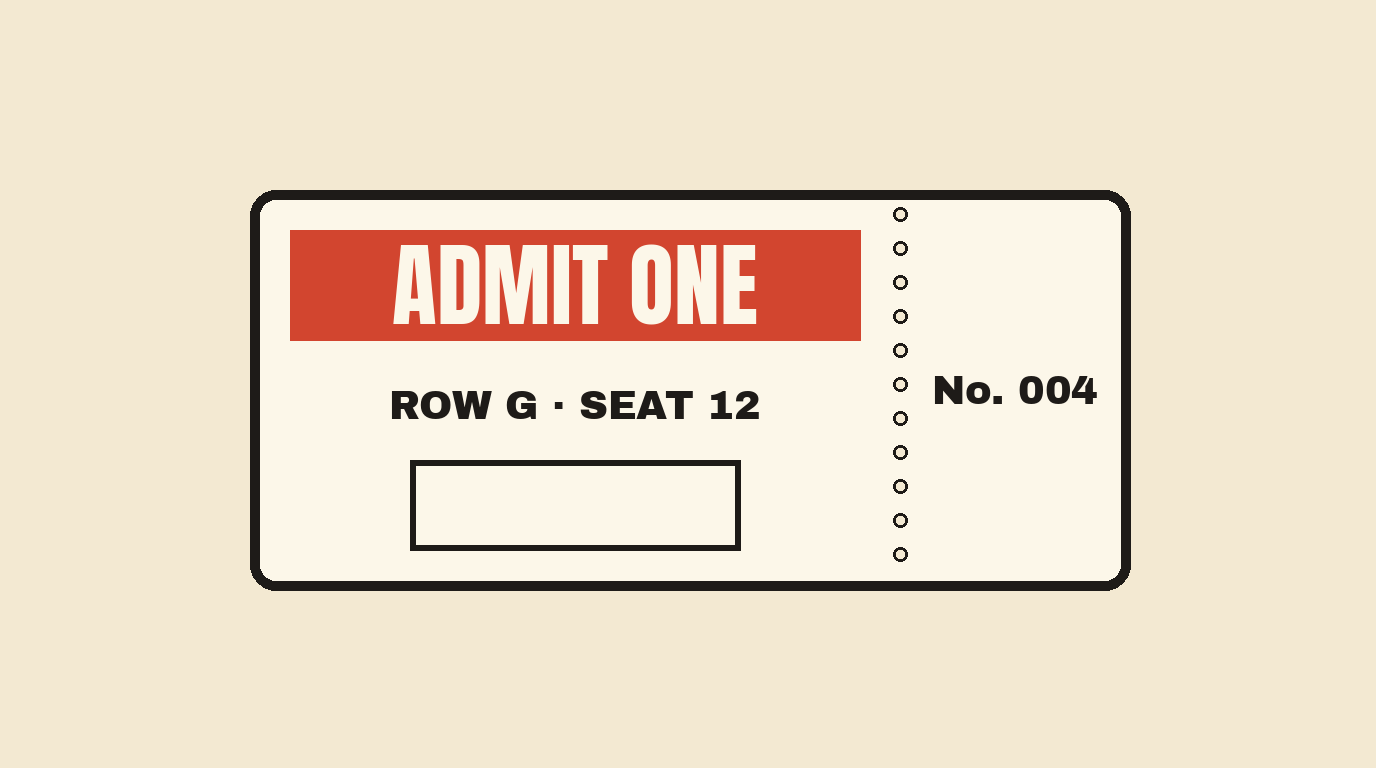
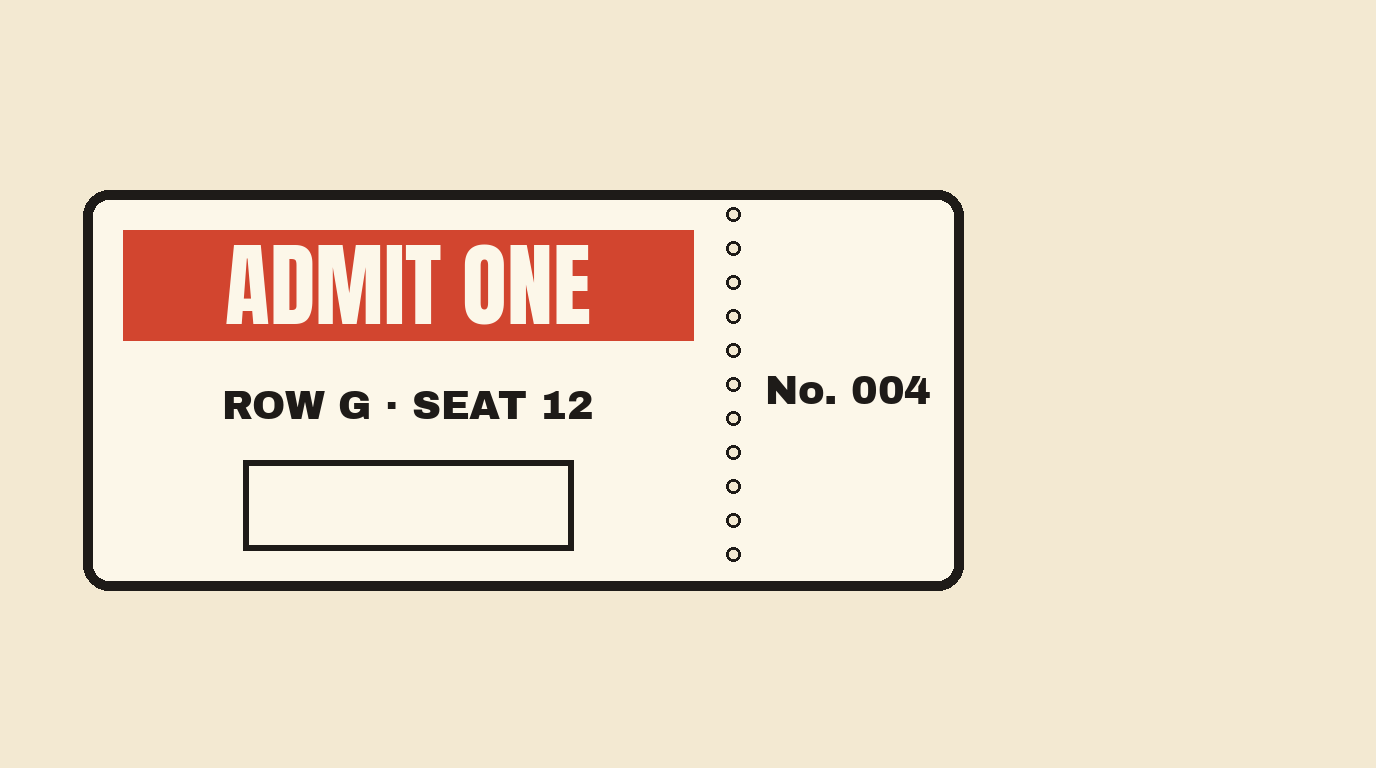
Ep.4 cold-open fixes: ticket centred at 38 %, $30 centred in its box, fee column left-aligned right of the ticket with a ruled sum and a red ring, ledger written by a plain cuff hand from the right edge (no Larry sleeve), cf1 note dropped, c1 DOWNTOWN inside the dark wall, b1 $18 FEES fades before t
Claude-Session: https://claude.ai/code/session_013pWx4qcpXPWropjuHuEZgS

Changed region(s): [[0.0625, 0.25, 0.8438, 0.7812], [0.4062, 0.5938, 0.5625, 0.7188]]

diff --git a/episodes/0005-drip-pricing/gen_script.py b/episodes/0005-drip-pricing/gen_script.py
@@ -23,6 +23,9 @@ def _fnt(name, size):
             return ImageFont.truetype(str(q), size)
 
 
+TICKET_DX = -167  # px in the 1376-wide picture (make_edits.py uses the same offset for the l1 desk composite)
+
+
 def make_ticket(path):
     """Code-drawn hero prop (no generation): the same 1950s concert ticket as the Ep.3 teaser, blank price box."""
     from PIL import Image, ImageDraw
@@ -30,7 +33,7 @@ def make_ticket(path):
     im = Image.new("RGB", (W, H), (243, 233, 210))
     d = ImageDraw.Draw(im)
     ink, red, paper = (30, 27, 24), (210, 69, 47), (252, 247, 233)
-    x0, y0, x1, y1 = 250, 190, 1130, 590
+    x0, y0, x1, y1 = 250 + TICKET_DX, 190, 1130 + TICKET_DX, 590  # centre at 38 % of the frame: the fee column fits on the right
     d.rounded_rectangle((x0, y0, x1, y1), radius=26, fill=paper, outline=ink, width=10)
     sx = x1 - 230
     for yy in range(y0 + 24, y1 - 20, 34):
@@ -174,7 +177,13 @@ X1_ON = dict(x=0.6353, y=0.4846, w=0.058, h=0.11, angle=1, color="ink", font="he
 X2_TOP = dict(x=0.396, y=0.2007, w=0.289, h=0.127, angle=2, color="ink", font="headline")
 X2_OFF = dict(x=0.1744, y=0.489, w=0.081, h=0.096, angle=1, color="ink", font="headline")
 X2_ON = dict(x=0.638, y=0.4845, w=0.059, h=0.112, angle=1, color="ink", font="headline")
-TICKET_PRICE_BOX = dict(x=0.43, y=0.62, w=0.20, h=0.10)  # the blank price box of the code-drawn ticket
+TICKET_PRICE_BOX = dict(x=0.2965, y=0.660, w=0.20, h=0.10)  # centred in the price box (.177-.416 x .599-.716), ~60 % of its height
+# the fee column on the clear paper right of the ticket (border at .70): left-aligned from .745, even 11 % line pitch
+FEE = lambda y, **kw: dict(x=0.85, y=y, w=0.21, h=0.075, align="left", **kw)
+FEE_Y = (0.37, 0.48, 0.59)
+SUM_RULE = dict(type="underline", x=0.82, y=0.637, w=0.15, h=0.01, color="ink", target=[0.746, 0.555, 0.90, 0.625])
+SUM = dict(x=0.85, y=0.71, w=0.21, h=0.075, align="left")
+SUM_RING = dict(type="circle", x=0.832, y=0.712, w=0.19, h=0.11, target=[0.76, 0.676, 0.905, 0.748])
 
 # ------------------------------------------------------------------ cold open (≤ 15 s to the folder)
 beat("o1", S_OPEN, "A concert ticket. Thirty dollars.",
@@ -182,16 +191,18 @@ beat("o1", S_OPEN, "A concert ticket. Thirty dollars.",
      pause_at={"word": "Thirty", "sec": 0.45, "hit": "stamp"}, ledger=[tab("TICKET", "$30.00", "Thirty")], label="Illustration")
 beat("o2", S_OPEN, "Then the fees. Eight. Six. Four.",
      reuse("o1", hand_marks=True, marks=[write("$30", at=0.0, **TICKET_PRICE_BOX, color="ink"),
-                                         write("+ $8 fee", on="Eight.", dur=0.45, x=0.86, y=0.40, w=0.16, h=0.07),
-                                         write("+ $6 fee", on="Six.", chain=True, dur=0.45, x=0.86, y=0.52, w=0.16, h=0.07),
-                                         write("+ $4 fee", on="Four.", chain=True, dur=0.45, x=0.86, y=0.64, w=0.16, h=0.07)]),
+                                         write("+ $8 fee", on="Eight.", dur=0.45, **FEE(FEE_Y[0])),
+                                         write("+ $6 fee", on="Six.", chain=True, dur=0.45, **FEE(FEE_Y[1])),
+                                         write("+ $4 fee", on="Four.", chain=True, dur=0.45, **FEE(FEE_Y[2]))]),
      # (Klot, option 2: the fee rows and PAID go on Larry's tab in one pass at b1, "Eighteen dollars of fees")
      label="Illustration")
 beat("o3", S_OPEN, "Total: forty-eight.",
      reuse("o1", hand_marks=True,  # no push: the fee column stays clear of Larry's tab and of the ILLUSTRATION plate
            marks=[write("$30", at=0.0, **TICKET_PRICE_BOX, color="ink"),
-                  write("+ $8 fee", at=0.0, x=0.86, y=0.40, w=0.16, h=0.07), write("+ $6 fee", at=0.0, x=0.86, y=0.52, w=0.16, h=0.07),
-                  write("+ $4 fee", at=0.0, x=0.86, y=0.64, w=0.16, h=0.07), write("= $48", on="forty-eight.", x=0.86, y=0.755, w=0.16, h=0.09)]),
+                  write("+ $8 fee", at=0.0, **FEE(FEE_Y[0])), write("+ $6 fee", at=0.0, **FEE(FEE_Y[1])),
+                  write("+ $4 fee", at=0.0, **FEE(FEE_Y[2])),
+                  dict(SUM_RULE, on="Total:", dur=0.3, hand=True), write("= $48", on="forty-eight.", dur=0.5, chain=True, **SUM),
+                  dict(SUM_RING, on="forty-eight.", delay=0.6, dur=0.45, chain=True, hand=True)]),  # ruled, written, then ringed in red
      pause_at={"word": "forty-eight.", "sec": 0.45, "hit": "stamp"}, label="Illustration")
 beat("o4", S_OPEN, "Larry is made up. The fees are not.",
      manual(img(f"{LARRY} sitting at a kitchen table at night, lit by the glow of a cream retro laptop, a paper concert ticket propped against a coffee cup, plain cream background",
@@ -203,8 +214,8 @@ beat("o4", S_OPEN, "Larry is made up. The fees are not.",
 # ------------------------------------------------------------------ the case + suspect no. 1
 beat("cf1", S_OPEN, "Case file number four. The fee at the end.",
      {"type": "casefile", "casefile": {"mode": "open", "number": "004", "title": "The fee at the end", "typed": False, "open_stamp_on": "end.",
-                                        "inside": ["SUBJECT: Larry (fictional)", "EXHIBIT: one $30 ticket", "", "SUSPECTS: 2", "STATUS: open"],
-                                        "writes": [{"line": 2, "text": "paid: $48", "on": "end."}]}})
+                                        "inside": ["SUBJECT: Larry (fictional)", "EXHIBIT: one $30 ticket", "", "SUSPECTS: 2", "STATUS: open"]}})
+# (the handwritten "paid: $48" note was dropped: it could only start ~0.3 s before the cut, Klot 22 Oct)
 beat("m1", S_OPEN, "Suspect number one. Name: the checkout fee. Aliases: service fee, processing fee, convenience fee.",
      {"type": "mugshot", "prompt": "a long curling blank paper till receipt hanging from a small nail on a plain light grey wall, nothing else in the picture, studio lighting",
       "suspect": {"number": 1, "name": "The checkout fee", "alias": "Service · Processing · Convenience", "tag": "SUSPECT", "stamp_pos": [0.70, 0.12],
@@ -275,7 +286,7 @@ beat("a14", S_EXP, "On September the first, the whole site switched. Fees at the
 chapter("t2", S_TM, "Wednesday, ten a.m.", "Wednesday 10:00 AM — $16.4 billion")
 beat("b1", S_TM, "Larry reads his receipt. Eighteen dollars of fees on a forty-eight-dollar ticket.",
      manual(img(f"{LARRY} at a breakfast table frowning at a long paper receipt that unrolls across the table, coffee cup, plain cream background",
-         motion="static", hand_marks=True, marks=[write("$18 FEES", on="receipt.", x=0.855, y=0.56, w=0.18, h=0.07)]), clip=True),
+         motion="static", hand_marks=True, marks=[write("$18 FEES", on="Larry", fade_after=0.75, x=0.84, y=0.56, w=0.16, h=0.07)]), clip=True),
      ledger=[tab("SERVICE FEE", "+$8.00", "Eighteen", dur=0.42), tab("FACILITY FEE", "+$6.00", "Eighteen", dur=0.42, chain=True),
              tab("PROCESSING FEE", "+$4.00", "Eighteen", dur=0.42, chain=True), tab("PAID", "$48.00", "Eighteen", dur=0.42, chain=True),
              tab("HIDDEN", "$18.00", "Eighteen", dur=0.5, chain=True, loss=True, circle=True)])  # one pass of the tab hand
@@ -298,7 +309,7 @@ beat("b6", S_TM, "Larry's thirty-seven and a half percent sits right inside that
                                  "values": [24, 37.5, 44], "unit": "%", "highlight": 1, "value_labels": True,
                                  "note": "FTC complaint ¶36 (alleged) · Larry: illustration"}})
 beat("b7", S_TM, "His thirty-dollar ticket grew by sixty percent between the first screen and the last.",
-     reuse("o1", hand_marks=True, marks=[write("$30", at=0.0, **TICKET_PRICE_BOX, color="ink"), write("+60 %", on="sixty", x=0.86, y=0.40, w=0.16, h=0.10)]),
+     reuse("o1", hand_marks=True, marks=[write("$30", at=0.0, **TICKET_PRICE_BOX, color="ink"), write("+60 %", on="sixty", x=0.85, y=0.45, w=0.18, h=0.10)]),
      pause_at={"word": "sixty", "sec": 0.5, "hit": "stamp"}, label="Illustration",
      ledger=[tab("= 37.5 % of the total · +60 % on the $30 shown", "", "sixty", note=True)])
 beat("b8", S_TM, "Larry, it turns out, is perfectly average.", reuse("b1", push={"center": [0.40, 0.35], "zoom": 1.7}), hero=True)
@@ -313,7 +324,7 @@ beat("b9b", S_TM, "Until a court decides, every word of it is an allegation.",
 chapter("t3", S_HOTEL, "Thursday, eleven-forty p.m.", "Thursday 11:40 PM — The resort fee")
 beat("c1", S_HOTEL, "Larry needs a hotel for the concert. Downtown. Nowhere near a beach.",
      manual(img(f"{LARRY} standing with a small suitcase in a plain downtown hotel lobby at night, a framed poster of a sunny beach on the wall behind him, plain cream background",
-         motion="static", hand_marks=True, marks=[write("DOWNTOWN", on="Downtown.", x=0.895, y=0.47, w=0.18, h=0.085, color="#FFFFFF")])))
+         motion="static", hand_marks=True, marks=[write("DOWNTOWN", on="Downtown.", x=0.874, y=0.45, w=0.145, h=0.085, color="#FFFFFF")])))
 beat("m2", S_HOTEL, "Suspect number two. Name: the resort fee. Aliases: amenity fee, destination fee.",
      {"type": "mugshot", "prompt": "an old hotel room key on a smooth oval brass key fob with a polished, completely plain surface, hanging from a small nail on a plain light grey wall, nothing else in the picture, studio lighting",
       "suspect": {"number": 2, "name": "The resort fee", "alias": "Amenity fee · Destination fee", "tag": "SUSPECT", "stamp_pos": [0.70, 0.12],
@@ -428,7 +439,7 @@ beat("l9", S_LAW, "It paid a four point two million pound fine,",
 beat("l9b", S_LAW, "and over seven hundred and sixty thousand pounds in refunds.",
      stat(760, "refunded to learners · CMA, April 2026", prefix="over £", suffix="k"))
 beat("l10", S_LAW, "In June, StubHub's British arm was fined too.",
-     reuse("o1", hand_marks=True, marks=[write("$30", at=0.0, **TICKET_PRICE_BOX, color="ink"), stamp('UK · FINED · JUNE 2026', 0.615, 0.70, on='fined', angle=-12, w=0.20)]),
+     reuse("o1", hand_marks=True, marks=[write("$30", at=0.0, **TICKET_PRICE_BOX, color="ink"), stamp('UK · FINED · JUNE 2026', 0.503, 0.668, on='fined', angle=-12, w=0.20)]),
      label="CMA · June 2026")
 beat("l11", S_LAW, "Three pounds. Very expensive pounds.",
      reuse("l8", push={"center": [0.45, 0.30], "zoom": 1.35}, hand_marks=True, marks=[write("£3 FEE", at=0.0, x=0.36, y=0.085, w=0.15, h=0.07),
@@ -532,6 +543,7 @@ for sh in SHORTS:
         b["id"] = f"{sh['id']}_{k}"
 
 ep = {
+    "config": {"ledger": {"hand": "ink_cuff", "hand_scale": 0.43, "from": "right"}},  # plain cuff hand, from the right edge
     "slug": "0005-drip-pricing",
     "title": "The $30 Ticket That Costs $48",
     "description": "Case file #004: the fee at the end. Larry (fictional) buys a $30 concert ticket and pays $48. StubHub's own 2015 experiment, the FTC's case against Ticketmaster (alleged), Marriott's city-hotel resort fees (alleged), why a split price feels cheaper, one ticket stamped by three laws — and three checks before you pay.",

diff --git a/factory/shots.py b/factory/shots.py
@@ -168,7 +168,16 @@ def draw_marks(base: np.ndarray, marks: list[dict], t: float, red, cfg: dict) ->
             out = base.copy()
         p = min(1.0, p)
         if mark.get("type") == "write":
-            _draw_write(out, mark, p, W, H, red, cfg)
+            fa = mark.get("fade_after")  # seconds after the writing ends: the note fades out over 0.3 s
+            f = 1.0 if fa is None else 1.0 - min(1.0, max(0.0, (t - at - dur - float(fa)) / 0.3))
+            if f <= 0:
+                continue
+            if f < 1.0:
+                lay = out.copy()
+                _draw_write(lay, mark, p, W, H, red, cfg)
+                out[:] = (out.astype(np.float32) * (1 - f) + lay.astype(np.float32) * f).astype(out.dtype)
+            else:
+                _draw_write(out, mark, p, W, H, red, cfg)
             continue
         if mark.get("type") == "stamp":  # small rubber stamp on the picture: the impression appears on the press frame
             imp = mark.get("_imp")
@@ -211,12 +220,16 @@ def draw_marks(base: np.ndarray, marks: list[dict], t: float, red, cfg: dict) ->
             mark["_strokes"] = strokes
         total = sum(len(s) for s in strokes)
         budget = int(total * p)
+        scol = red
+        if mark.get("color") and mark.get("color") != "red":  # e.g. an ink sum rule
+            pal_ = {k: hex_to_rgb(v) for k, v in cfg["style"]["palette"].items()}
+            scol = tuple(int(c) for c in (pal_.get(mark["color"]) or hex_to_rgb(mark["color"])))
         for s in strokes:
             if budget <= 1:
                 break
             seg = s[: min(len(s), budget)]
             budget -= len(seg)
-            cv2.polylines(out, [seg.astype(np.int32).reshape(-1, 1, 2)], False, red, thick, cv2.LINE_AA)
+            cv2.polylines(out, [seg.astype(np.int32).reshape(-1, 1, 2)], False, scol, thick, cv2.LINE_AA)
         if mark.get("text") and p >= 1.0:
             note = mark.get("_note")
             if note is None:
@@ -770,7 +783,8 @@ class ChartShot(Shot):
                     draw.rectangle((bx, top, bx + bw, y1), fill=color, outline=self.pal["ink"], width=3)
                 draw.text((bx + bw / 2, y1 + 12), str(lab), font=lab_font, fill=self.pal["ink"], anchor="ma")
                 if p >= 0.999:
-                    vl = (self.spec.get("value_labels") or [None] * n)[i]
+                    vls = self.spec.get("value_labels")
+                    vl = vls[i] if isinstance(vls, (list, tuple)) and i < len(vls) else None  # True = the plain values
                     draw.text((bx + bw / 2, top - 8), vl or self._fmt(v), font=val_font, fill=self.pal["ink"], anchor="md")
         else:
             p_all = ease(t / g)

diff --git a/factory/devices.py b/factory/devices.py
@@ -83,6 +83,8 @@ class Ledger:
             self.items.append((np.array(lab), Writing(r["amount"], mf, col), int(cw * 0.62), y - int(rh * 0.12)))
             self.bold[k] = Writing(r["amount"], bf, col)  # sleeping card: heavy print figures, readable on a phone  # thicker figures for the small card
         self.card = np.array(card.convert("RGB"))
+        lh = (cfg.get("ledger") or {})  # episode override: {"hand": "ink_cuff", "hand_scale": 0.43, "from": "right"}
+        self.hand_kind, self.hand_scale, self.hand_from = lh.get("hand", "ink_under"), float(lh.get("hand_scale", 0.72)), lh.get("from", "below")
         self.tape = np.array(tape_strip(int(cw * 0.30), int(rh * 0.55), 5).rotate(-4, expand=True))
         self._cache = {}
 
@@ -178,9 +180,26 @@ class Ledger:
                         return (x + (phx + ex + (hx + sx_ - phx - ex) * u) * k, y + (phy + ey + (hy + sy_ - phy - ey) * u) * k)
                 return None
             r0, r1 = self.rows[grp[0]], self.rows[grp[-1]]
-            tip = hand_path(tipf, r0["at"] + 0.15, r1["at"] + 0.15 + self._wd(r1), t, self.W, self.H, False, from_below=True)
+            ta, tb = r0["at"] + 0.15, r1["at"] + 0.15 + self._wd(r1)
+            if self.hand_from == "right":  # slides in from the right edge, level with the line, only as far as the card
+                tip = None
+                enter, leave = 0.28, 0.32
+                if ta - enter <= t <= tb + leave:
+                    q = tipf(min(max(t, ta), tb))
+                    if q:
+                        off = self.W * 1.12
+                        if t < ta:
+                            u = ease((t - (ta - enter)) / enter)
+                            tip = (off + (q[0] - off) * u, q[1])
+                        elif t > tb:
+                            u = ease((t - tb) / leave)
+                            tip = (q[0] + (off - q[0]) * u, q[1])
+                        else:
+                            tip = q
+            else:
+                tip = hand_path(tipf, ta, tb, t, self.W, self.H, False, from_below=True)
             if tip:
-                paste_hand(frame, "ink_under", tip[0], tip[1], False, scale=0.72)
+                paste_hand(frame, self.hand_kind, tip[0], tip[1], False, scale=self.hand_scale)
 
     def sfx(self) -> list[tuple[float, str]]:
         out = [(self.rows[0]["at"] - 0.3, "paper")] if self.rows else []

diff --git a/episodes/0005-drip-pricing/make_edits.py b/episodes/0005-drip-pricing/make_edits.py
@@ -58,10 +58,11 @@ Image.fromarray(im).save(OUT / "c4.png")
 desk = Image.open(CACHE / f"{FRAMES['l1']}.png").convert("RGB")
 W, H = desk.size
 tk = Image.open(OUT / "o1.png").convert("RGB")
-tx0, ty0, tx1, ty1 = 250, 190, 1130, 590
+DX = -167  # TICKET_DX in gen_script.py: o1 draws the ticket 167 px left of the old place
+tx0, ty0, tx1, ty1 = 250 + DX, 190, 1130 + DX, 590
 ticket = tk.crop((tx0, ty0, tx1, ty1))
 d = ImageDraw.Draw(ticket)  # the price, handwritten in ink as in the cold open
-d.text(((410 + 740) / 2 - tx0, (460 + 550) / 2 - ty0), "$30", font=fnt("PermanentMarker-Regular.ttf", 74), fill=INK, anchor="mm")
+d.text(((410 + 740) / 2 + DX - tx0, (460 + 550) / 2 - ty0), "$30", font=fnt("PermanentMarker-Regular.ttf", 74), fill=INK, anchor="mm")
 alpha = Image.new("L", ticket.size, 0)
 ImageDraw.Draw(alpha).rounded_rectangle((0, 0, ticket.width - 1, ticket.height - 1), radius=26, fill=255)
 TW = int(W * 0.50)
